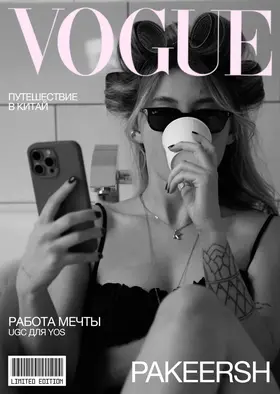
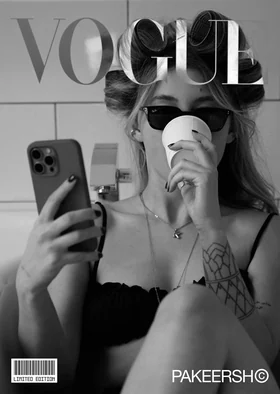
Новая обложка PAKEERSH и полка по диагонали
- обложка обновлена из Figma везде: полка, просмотрщик, пара и первая страница книги
- книги на полке идут каскадом вниз, как в референсе

diff --git a/styles.css b/styles.css
@@ -910,3 +910,17 @@ a:hover > .arrow path, a:focus-visible > .arrow path { stroke: var(--paper); }
   .step { grid-template-columns: 1fr; }
   .step__num, .step__title, .step__text { grid-column: 1; }
 }
+
+/* ---------- Полка идёт по диагонали: каждая следующая книга ниже ---------- */
+.shelf__stage { align-items: flex-start; padding-bottom: 120px; }
+.album { --step: 30px; }
+.album { transform:
+  translateY(calc(var(--n) * var(--step)))
+  translateY(var(--drop, 0px))
+  translateY(calc(var(--lift, 0px) + var(--bob, 0px)))
+  translateZ(var(--pop, 0px))
+  rotateY(var(--ry, 38deg)); }
+@media (max-width: 700px) {
+  .shelf__stage { padding-bottom: 80px; }
+  .album { --step: 18px; }
+}
